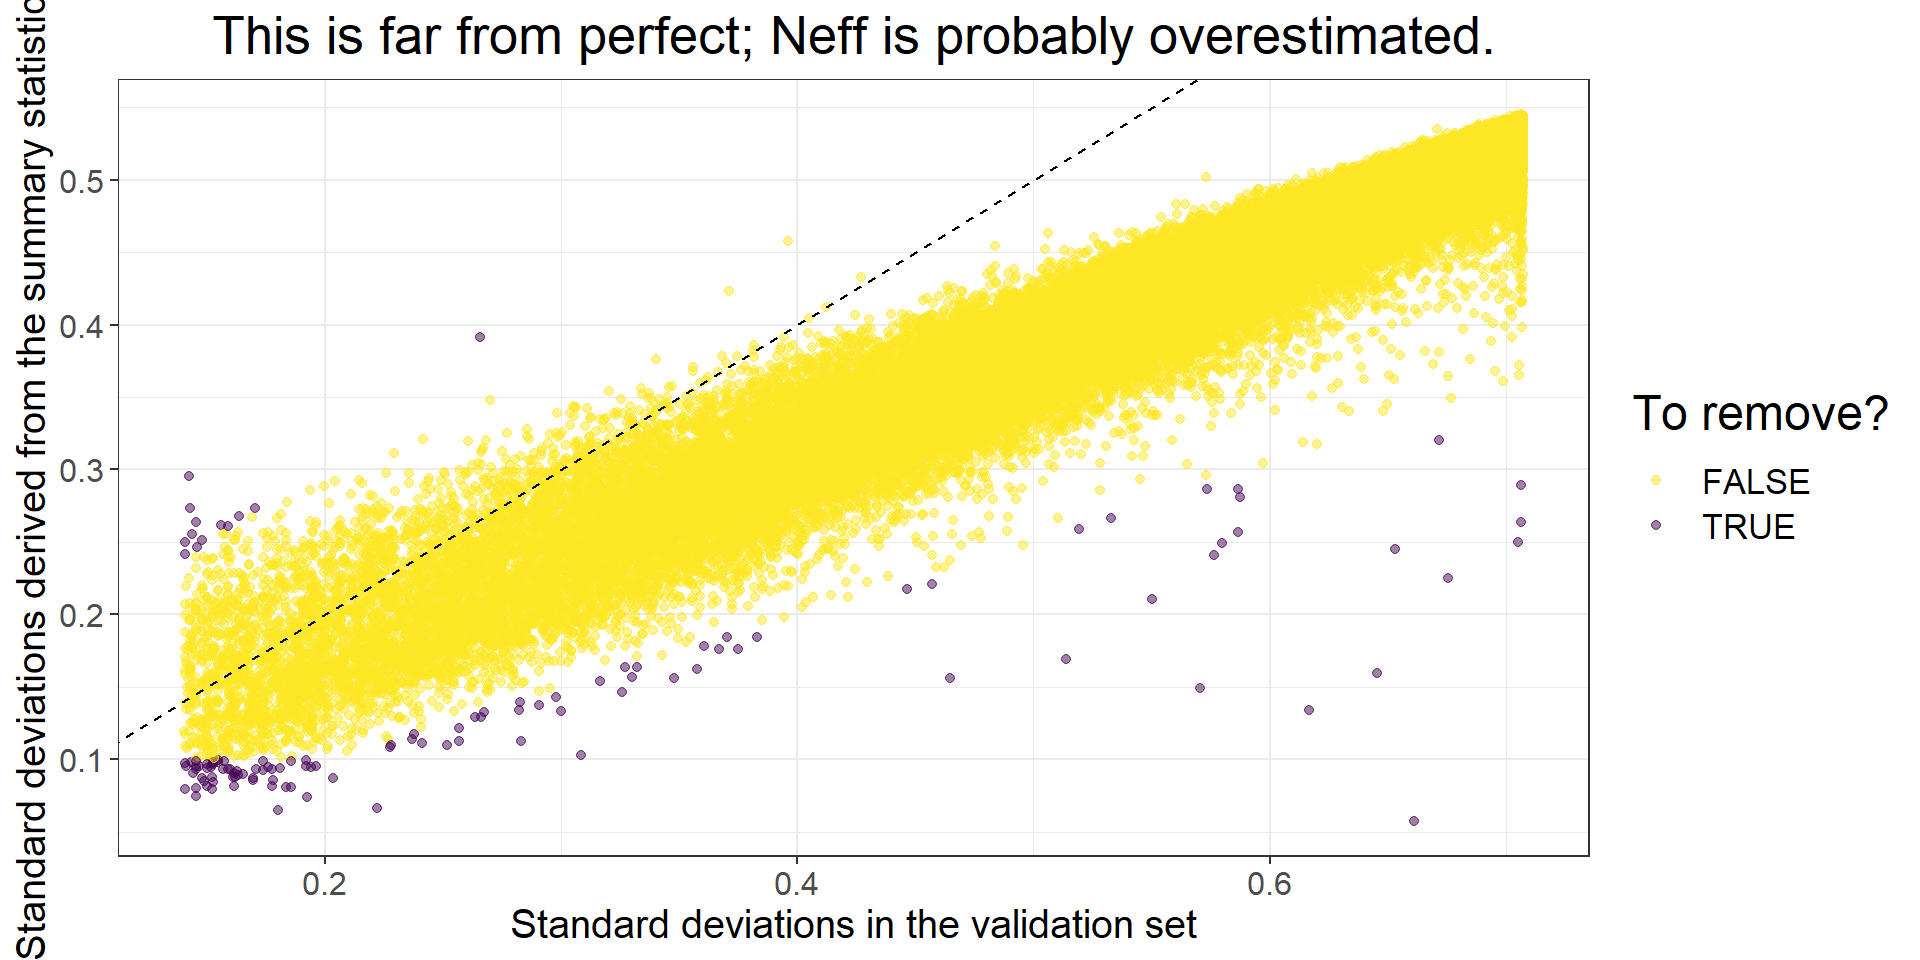
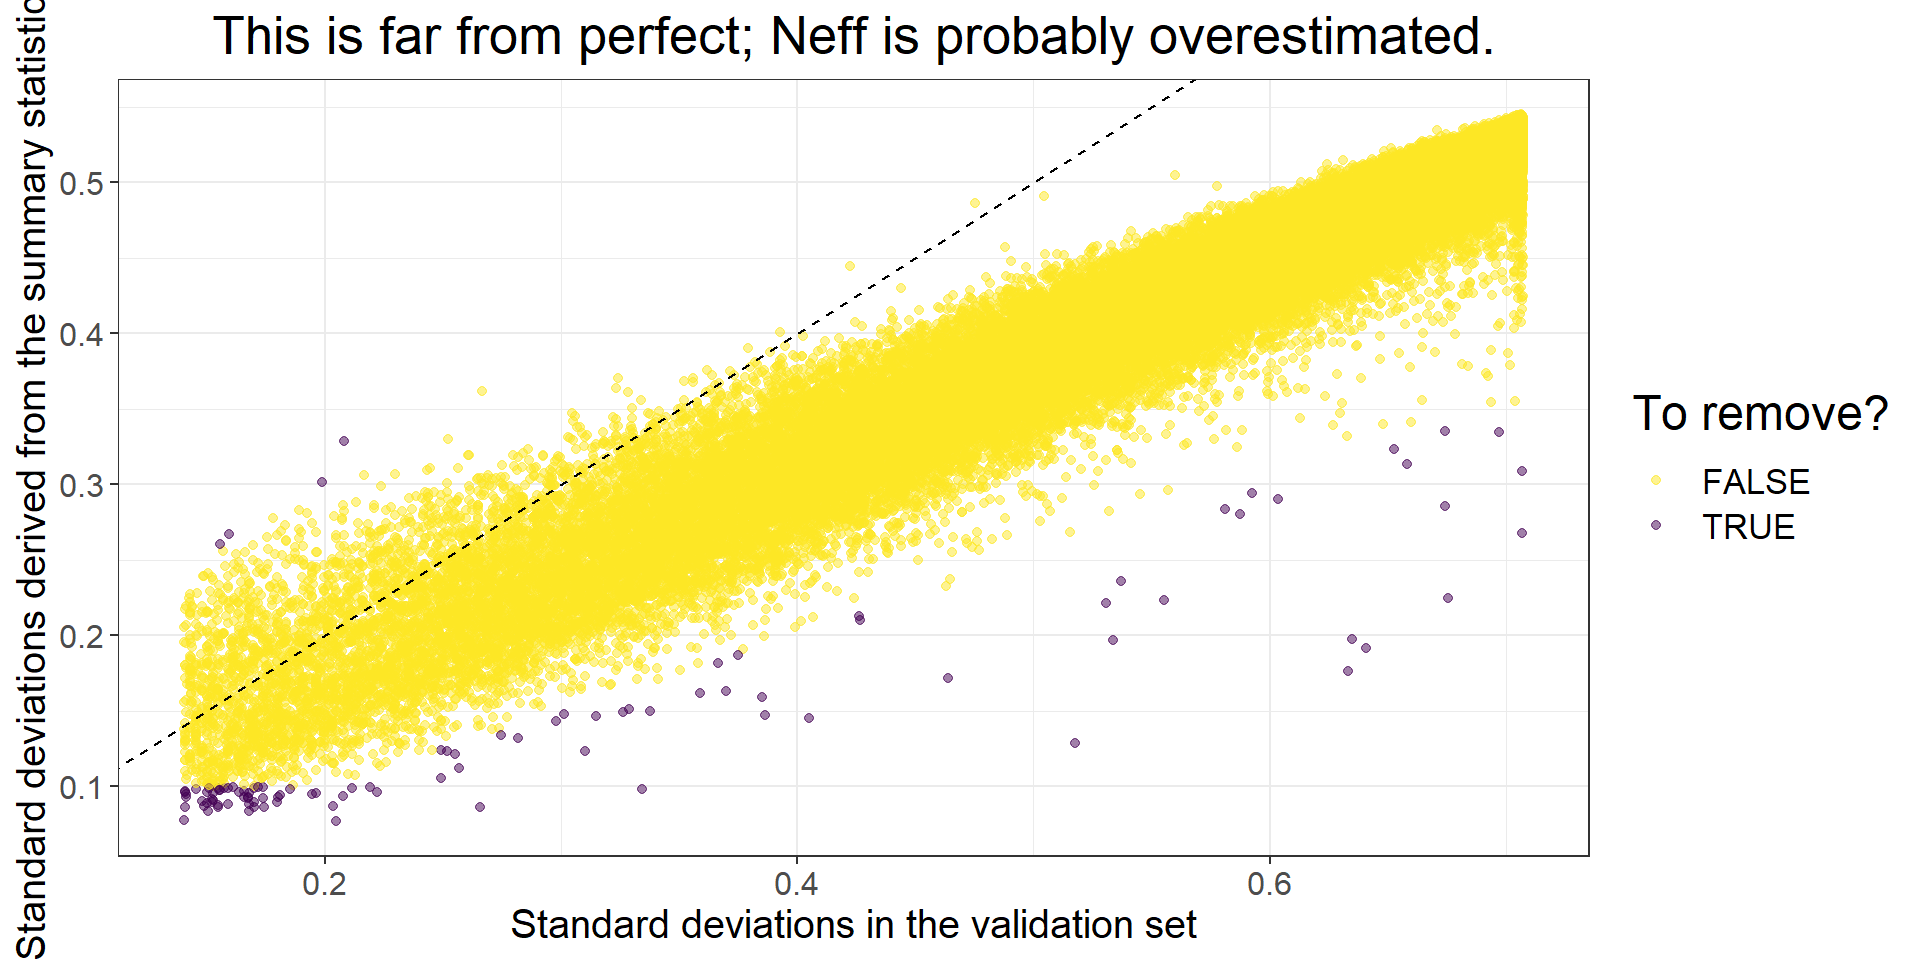
use h2*0.3 instead of 0.1

diff --git a/docs/polygenic-scores-pgs.html b/docs/polygenic-scores-pgs.html
@@ -357,11 +357,11 @@ Make sure to reinstall {bigsnpr} when updating {bigsparser} to this new version 
 <span id="cb22-3"><a href="polygenic-scores-pgs.html#cb22-3" aria-hidden="true" tabindex="-1"></a>pred_inf <span class="ot">&lt;-</span> <span class="fu">big_prodVec</span>(G, beta_inf, <span class="at">ind.col =</span> df_beta<span class="sc">$</span><span class="st">`</span><span class="at">_NUM_ID_</span><span class="st">`</span>)</span>
 <span id="cb22-4"><a href="polygenic-scores-pgs.html#cb22-4" aria-hidden="true" tabindex="-1"></a><span class="fu">AUCBoot</span>(pred_inf, obj.bigsnp<span class="sc">$</span>fam<span class="sc">$</span>CAD)</span></code></pre></div>
 <pre><code>#&gt;       Mean       2.5%      97.5%         Sd 
-#&gt; 0.64440055 0.61318690 0.67438099 0.01558153</code></pre>
+#&gt; 0.64430818 0.61320476 0.67457960 0.01554124</code></pre>
 <p>For LDpred2(-grid), this is the grid we recommend to use:</p>
 <div class="sourceCode" id="cb24"><pre class="sourceCode r"><code class="sourceCode r"><span id="cb24-1"><a href="polygenic-scores-pgs.html#cb24-1" aria-hidden="true" tabindex="-1"></a><span class="co"># LDpred2-grid</span></span>
-<span id="cb24-2"><a href="polygenic-scores-pgs.html#cb24-2" aria-hidden="true" tabindex="-1"></a>(h2_seq <span class="ot">&lt;-</span> <span class="fu">round</span>(ldsc_h2_est <span class="sc">*</span> <span class="fu">c</span>(<span class="fl">0.1</span>, <span class="fl">0.7</span>, <span class="dv">1</span>, <span class="fl">1.4</span>), <span class="dv">4</span>))</span></code></pre></div>
-<pre><code>#&gt; [1] 0.0021 0.0147 0.0210 0.0294</code></pre>
+<span id="cb24-2"><a href="polygenic-scores-pgs.html#cb24-2" aria-hidden="true" tabindex="-1"></a>(h2_seq <span class="ot">&lt;-</span> <span class="fu">round</span>(ldsc_h2_est <span class="sc">*</span> <span class="fu">c</span>(<span class="fl">0.3</span>, <span class="fl">0.7</span>, <span class="dv">1</span>, <span class="fl">1.4</span>), <span class="dv">4</span>))</span></code></pre></div>
+<pre><code>#&gt; [1] 0.0063 0.0147 0.0210 0.0294</code></pre>
 <div class="sourceCode" id="cb26"><pre class="sourceCode r"><code class="sourceCode r"><span id="cb26-1"><a href="polygenic-scores-pgs.html#cb26-1" aria-hidden="true" tabindex="-1"></a>(p_seq <span class="ot">&lt;-</span> <span class="fu">signif</span>(<span class="fu">seq_log</span>(<span class="fl">1e-5</span>, <span class="dv">1</span>, <span class="at">length.out =</span> <span class="dv">21</span>), <span class="dv">2</span>))</span></code></pre></div>
 <pre><code>#&gt;  [1] 1.0e-05 1.8e-05 3.2e-05 5.6e-05 1.0e-04 1.8e-04 3.2e-04 5.6e-04
 #&gt;  [9] 1.0e-03 1.8e-03 3.2e-03 5.6e-03 1.0e-02 1.8e-02 3.2e-02 5.6e-02
@@ -433,7 +433,7 @@ Note that you should use only individuals from the validation set to compute the
 <span id="cb40-4"><a href="polygenic-scores-pgs.html#cb40-4" aria-hidden="true" tabindex="-1"></a>                               <span class="at">ncores =</span> NCORES)</span>
 <span id="cb40-5"><a href="polygenic-scores-pgs.html#cb40-5" aria-hidden="true" tabindex="-1"></a><span class="fu">AUCBoot</span>(final_pred_auto, obj.bigsnp<span class="sc">$</span>fam<span class="sc">$</span>CAD)</span></code></pre></div>
 <pre><code>#&gt;       Mean       2.5%      97.5%         Sd 
-#&gt; 0.60696186 0.57584434 0.63815946 0.01593951</code></pre>
+#&gt; 0.61386719 0.58256844 0.64474945 0.01598587</code></pre>
 </div>
 <div id="lassosum2-grid-of-models" class="section level3" number="6.1.3">
 <h3><span class="header-section-number">6.1.3</span> lassosum2: grid of models</h3>
